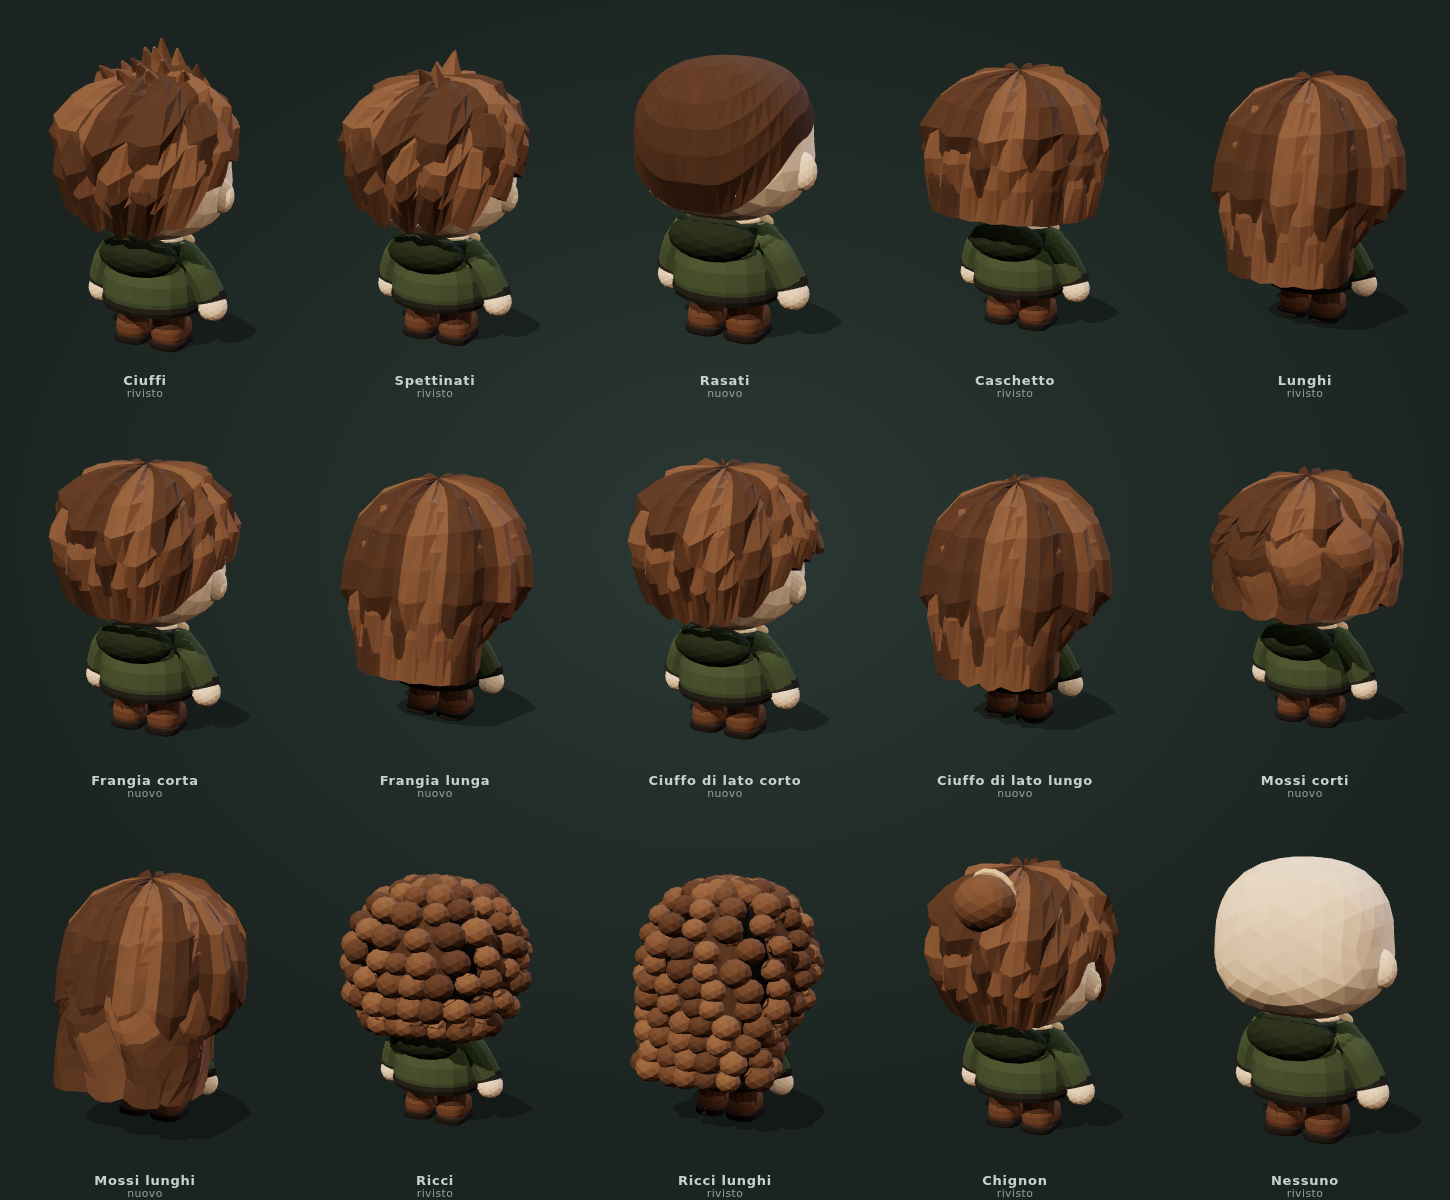
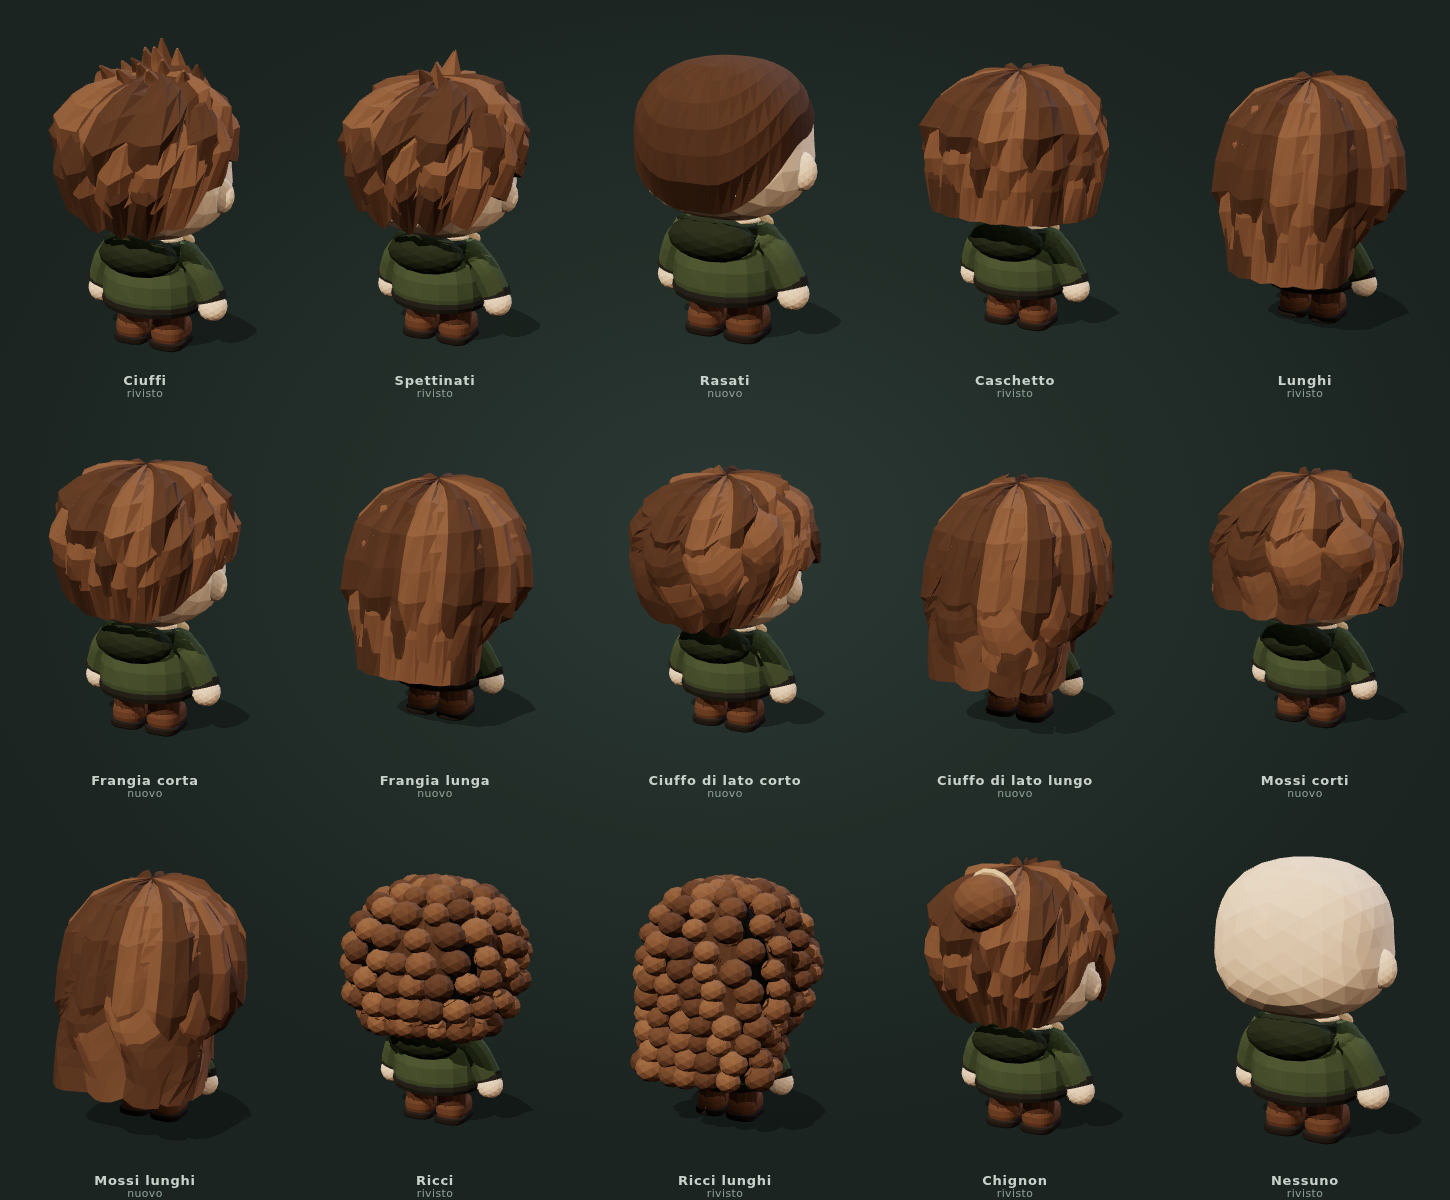
Anteprima capelli: ciuffo di lato fatto di ciocche mosse spazzate di traverso
Al posto della grossa ciocca curva, le ciocche davanti partono dalla riga
e scendono di traverso sulla fronte ondeggiando (come i mossi, più
accentuato).

Claude-Session: https://claude.ai/code/session_01U6u5RojYrwYjZd8sSRU7em

Changed region(s): [[0.4345, 0.37, 0.5897, 0.6167], [0.6207, 0.4008, 0.7759, 0.5858]]

diff --git a/Prototype-3d/src/render/lowpoly/v2/custode.ts b/Prototype-3d/src/render/lowpoly/v2/custode.ts
@@ -602,7 +602,7 @@ function moustache(lp: LP) {
  * per ciocca che scende dal vortice girando un poco: le ciocche fanno parte
  * del volume, non possono staccarsi.
  */
-export function hairLayer(lp: LP, o: { locks: number; hem: (thDeg: number) => number; depth: number; lift: number; thick: number; phase: number; swirl: number; seed: number; tone: (k: number) => string; top?: number; span?: [number, number]; waveTh?: number; flare?: number; round?: boolean }) {
+export function hairLayer(lp: LP, o: { locks: number; hem: (thDeg: number) => number; depth: number; lift: number; thick: number; phase: number; swirl: number; seed: number; tone: (k: number) => string; top?: number; span?: [number, number]; waveTh?: number; flare?: number; round?: boolean; sweep?: number }) {
   const rnd = prng(o.seed);
   const jitter = Array.from({ length: o.locks }, () => [0.75 + rnd() * 0.5, (rnd() - 0.5) * 0.3, rnd()]); // lunghezza, asimmetria, tono
   const NU = o.locks * 4, NV = o.waveTh ? 16 : 6; // pochi segmenti: bastano per punta e rilievo di ogni ciocca (le onde ne vogliono di più)
@@ -620,9 +620,11 @@ export function hairLayer(lp: LP, o: { locks: number; hem: (thDeg: number) => nu
       // mossi: ogni ciocca ondeggia di lato (a S) scendendo, di più verso le punte
       // (sulla fronte la frangia resta liscia: onde e volume solo ai lati e dietro)
       const th0 = (o.span ? lerp(o.span[0], o.span[1], u) : u * 360) + o.swirl * v;
-      const sides = smooth(30, 75, absDeg(th0 * DEG));
+      // ciuffo di lato (sweep): le ciocche davanti partono dalla riga e scendono di traverso sulla fronte, ondeggiando anche lì
+      const front = 1 - smooth(10, 150, absDeg(th0 * DEG)); // calo dolce: le ciocche spostate non si accavallano
+      const sides = o.sweep ? 1 : smooth(30, 75, absDeg(th0 * DEG));
       const wv = o.waveTh ? o.waveTh * Math.sin((1 - v) * Math.PI * 2.6 + k * 0.9) * smooth(0, 0.6, 1 - v) * sides : 0;
-      const thD = th0 + wv;
+      const thD = th0 + wv + (o.sweep ?? 0) * front * Math.pow(1 - v, 1.3);
       const ends = o.span ? smooth(0, 0.1, u) * smooth(1, 0.9, u) : 1; // un arco si assottiglia agli estremi
       const hem = o.hem(thD) - o.depth * len * tooth * (o.round ? 0.25 + 0.75 * sides : 1);
       const top = o.top ?? 89;
@@ -699,13 +701,18 @@ function hair(lp: LP) {
   const wavy = style === 'wavy' || style === 'wavyLong';
   const wave = wavy ? { waveTh: style === 'wavy' ? 9 : 15, flare: style === 'wavy' ? 0.05 : 0.07, round: true } : {};
   const wave2 = wavy ? { waveTh: style === 'wavy' ? 7 : 11, flare: 0.03, round: true } : {};
+  // ciuffo di lato: come i mossi ma più accentuato, con le ciocche davanti spazzate di traverso
+  const swept = style === 'side' || style === 'sideLong';
+  const sw1 = swept ? { waveTh: 12, flare: 0.04, round: true, sweep: -40 } : wave;
+  const sw2 = swept ? { waveTh: 7, flare: 0.03, round: true, sweep: -45 } : wave2;
+  const sw3 = swept ? { round: true, sweep: -35 } : {};
   // i ricci hanno sotto un casco sottile e più scuro: si vedono solo i riccioli
   const base = curly ? (k: number) => tone(k - 0.07) : tone;
   const thick = curly ? 0.025 : hat ? 0.03 : 0.05;
-  hairLayer(lp, { locks: messy ? 15 : wavy ? 14 : 20, hem: (t) => tip(t) + 4, depth, lift: 0.03, thick, phase: 0, swirl: messy ? 14 : 6, seed: 3, tone: base, top, ...wave });
+  hairLayer(lp, { locks: messy ? 15 : wavy || swept ? 14 : 20, hem: (t) => tip(t) + 4, depth, lift: 0.03, thick, phase: 0, swirl: messy ? 14 : 6, seed: 3, tone: base, top, ...sw1 });
   if (!hat && !curly) {
-    hairLayer(lp, { locks: messy ? 12 : wavy ? 11 : 16, hem: (t) => tip(t) + 26, depth: depth + 2, lift: 0.04, thick: 0.065, phase: 0.5, swirl: messy ? 18 : 8, seed: 7, tone, ...wave2 });
-    hairLayer(lp, { locks: messy ? 9 : 12, hem: (t) => tip(t) + 48, depth: depth + 3, lift: 0.05, thick: 0.08, phase: 0.2, swirl: messy ? 22 : 10, seed: 11, tone });
+    hairLayer(lp, { locks: messy ? 12 : wavy || swept ? 11 : 16, hem: (t) => tip(t) + 26, depth: depth + 2, lift: 0.04, thick: 0.065, phase: 0.5, swirl: messy ? 18 : 8, seed: 7, tone, ...sw2 });
+    hairLayer(lp, { locks: messy ? 9 : 12, hem: (t) => tip(t) + 48, depth: depth + 3, lift: 0.05, thick: 0.08, phase: 0.2, swirl: messy ? 22 : 10, seed: 11, tone, ...sw3 });
   }
   if (curly) curls(lp, tone, hat ? top : 86);
   if (style === 'bun' && !hat) {
@@ -714,7 +721,6 @@ function hair(lp: LP) {
     lp.blob(c.x, c.y, c.z, 0.11, 0.1, 0.1, tone(0.02), { ...O, detail: 2 } as LPOpts);
     lp.add(new THREE.TorusGeometry(0.075, 0.016, 6, 14).rotateX(-0.3).translate(c.x, c.y + 0.03, c.z + 0.06), L.accentColor, O); // elastico
   }
-  if (style === 'side' || style === 'sideLong') sweptLock(lp, tone, hat);
   if (hat) return;
   if (style === 'spiky') {
     // ciuffi a punta che salgono dalla cima
@@ -750,15 +756,6 @@ function tufts(lp: LP, tone: (k: number) => string) {
     const tipP = rootP.clone().addScaledVector(up, h).addScaledVector(bend, h * back * 0.7);
     lp.add(taperTube([rootP, mid, tipP], [0.03 + h * 0.14, 0.022 + h * 0.1, 0.005], 6), tone([0.04, 0.0, 0.03, -0.02, 0.02, 0.05, 0.01][k % 7]), { ...O, vary: 0.04 });
   });
-}
-
-/** Ciuffo di lato: una ciocca larga che parte dalla riga e scende di traverso sulla fronte. */
-function sweptLock(lp: LP, tone: (k: number) => string, hat: boolean) {
-  const path: Array<[number, number]> = hat ? [[18, 38], [-10, 26], [-40, 16], [-62, 8]] : [[22, 62], [8, 40], [-18, 24], [-45, 14], [-66, 6]];
-  for (const [off, r, k] of [[0, 1, 0.03], [7, 0.8, -0.01]] as const) {
-    const pts = path.map(([th, ph]) => { const { p, n } = headAt((th + off) * DEG, (ph - off * 0.4) * DEG); return p.addScaledVector(n, 0.045 * r + 0.02); });
-    lp.add(taperTube(pts, pts.map((_, i) => lerp(0.055, 0.012, i / (pts.length - 1)) * r), 7), tone(k), { ...O, vary: 0.04 });
-  }
 }
 
 /** Cappelli: tesa larga, cilindro, berretto con risvolto e pompon. */
